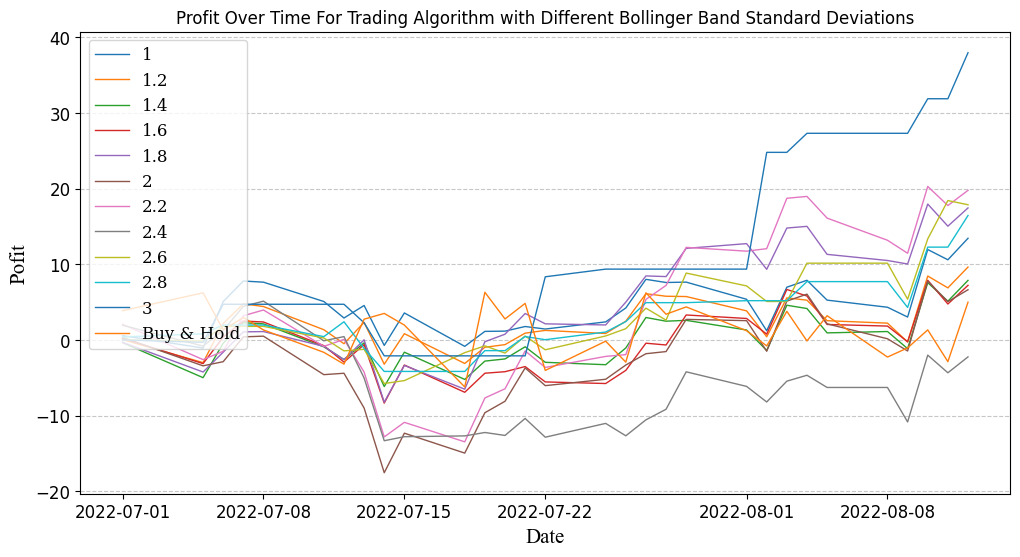
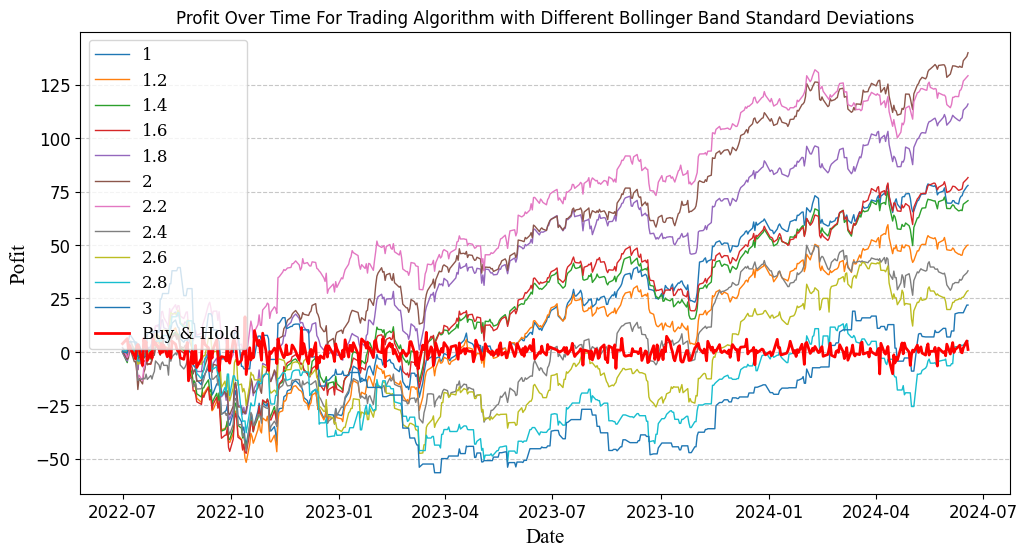
bug

diff --git a/Django_back_end/myapi/finance_tools/back_testing/back_testing.py b/Django_back_end/myapi/finance_tools/back_testing/back_testing.py
@@ -122,7 +122,7 @@ def plot_profit(dates, profits, buy_and_hold):
     plt.figure(figsize=(12, 6))
     for std_dev in profits:
         plt.plot(dates, profits[std_dev], linewidth=1, label=str(std_dev))
-    plt.plot(dates, buy_and_hold, linewidth=2, label='Buy & Hold')
+    plt.plot(dates, buy_and_hold, linewidth=2, label='Buy & Hold', color='red')
     plt.title('Profit Over Time For Trading Algorithm with Different Bollinger Band Standard Deviations')
     plt.xlabel('Date', fontsize=15, fontname='Times New Roman')
     plt.ylabel('Pofit', fontsize=15, fontname='Times New Roman')
@@ -142,6 +142,7 @@ def backtest():
     
     historical_data = get_loaded_historical_data()
     historical_data.iloc[::-1]
+    start_value = list(historical_data['close'])[0]
     
     historical_data['close'] = historical_data['close'].astype(float)
     grouped = historical_data.groupby(historical_data.index.date)
@@ -161,7 +162,7 @@ def backtest():
         print(f'Testing std deviation: {std_dev}')
         
         # Test each day in the period
-        for date, group in list(grouped)[:30]:
+        for date, group in grouped:
             start_profit = total_profit
             num_trades = 0
 
@@ -174,7 +175,7 @@ def backtest():
             # Update some variables on the last run
             if std_dev == std_devs[-1]:
                 dates.append(date)
-                buy_and_hold.append(list(group['close'])[-1]-list(group['close'])[0])
+                buy_and_hold.append(list(group['close'])[-1]-start_value)
             
             # Print the results
             elapsed_time = end_time - start_time
